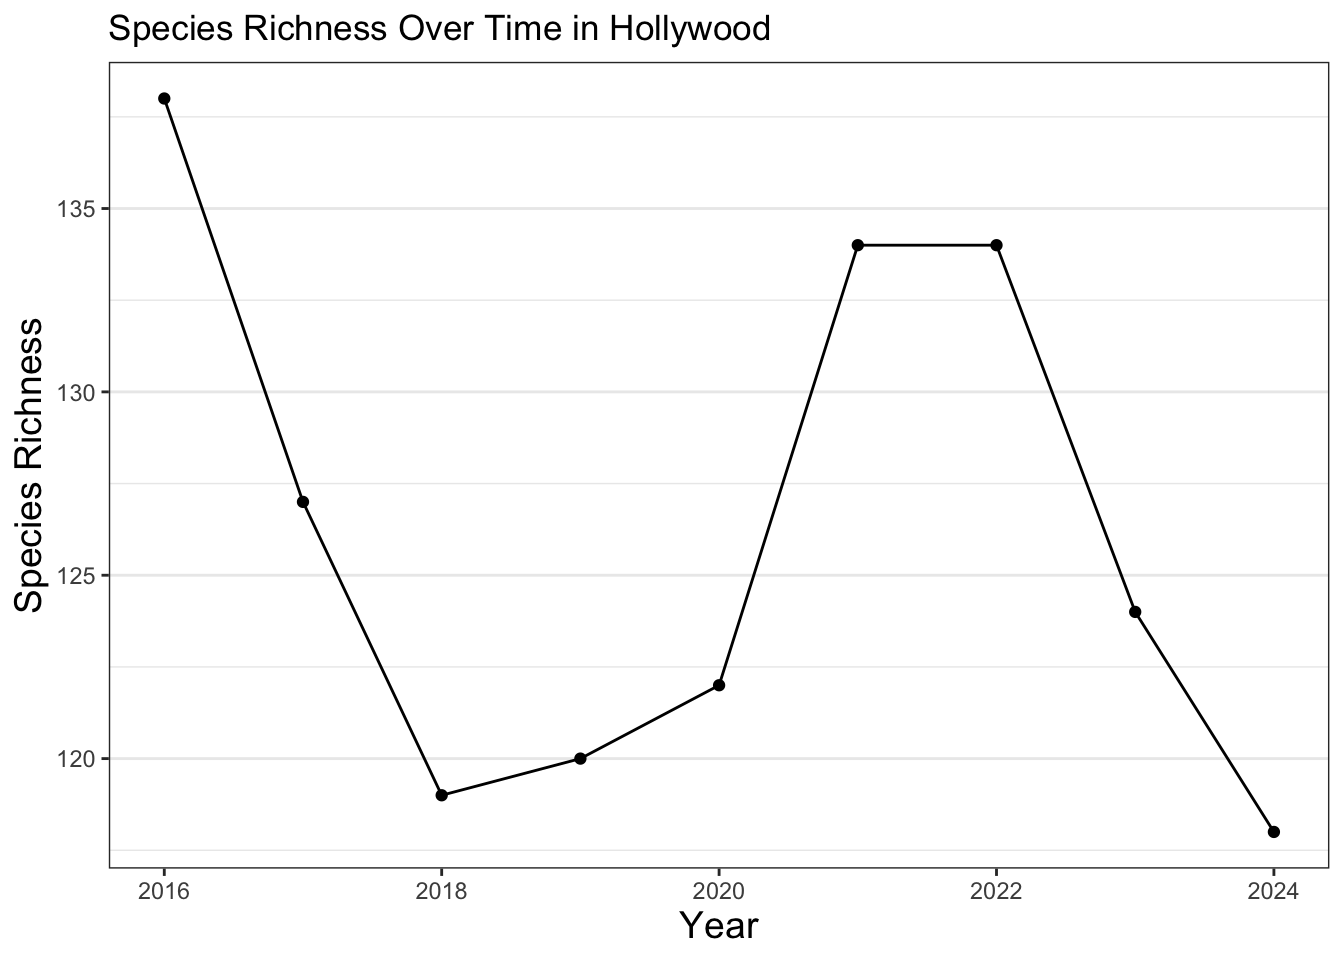
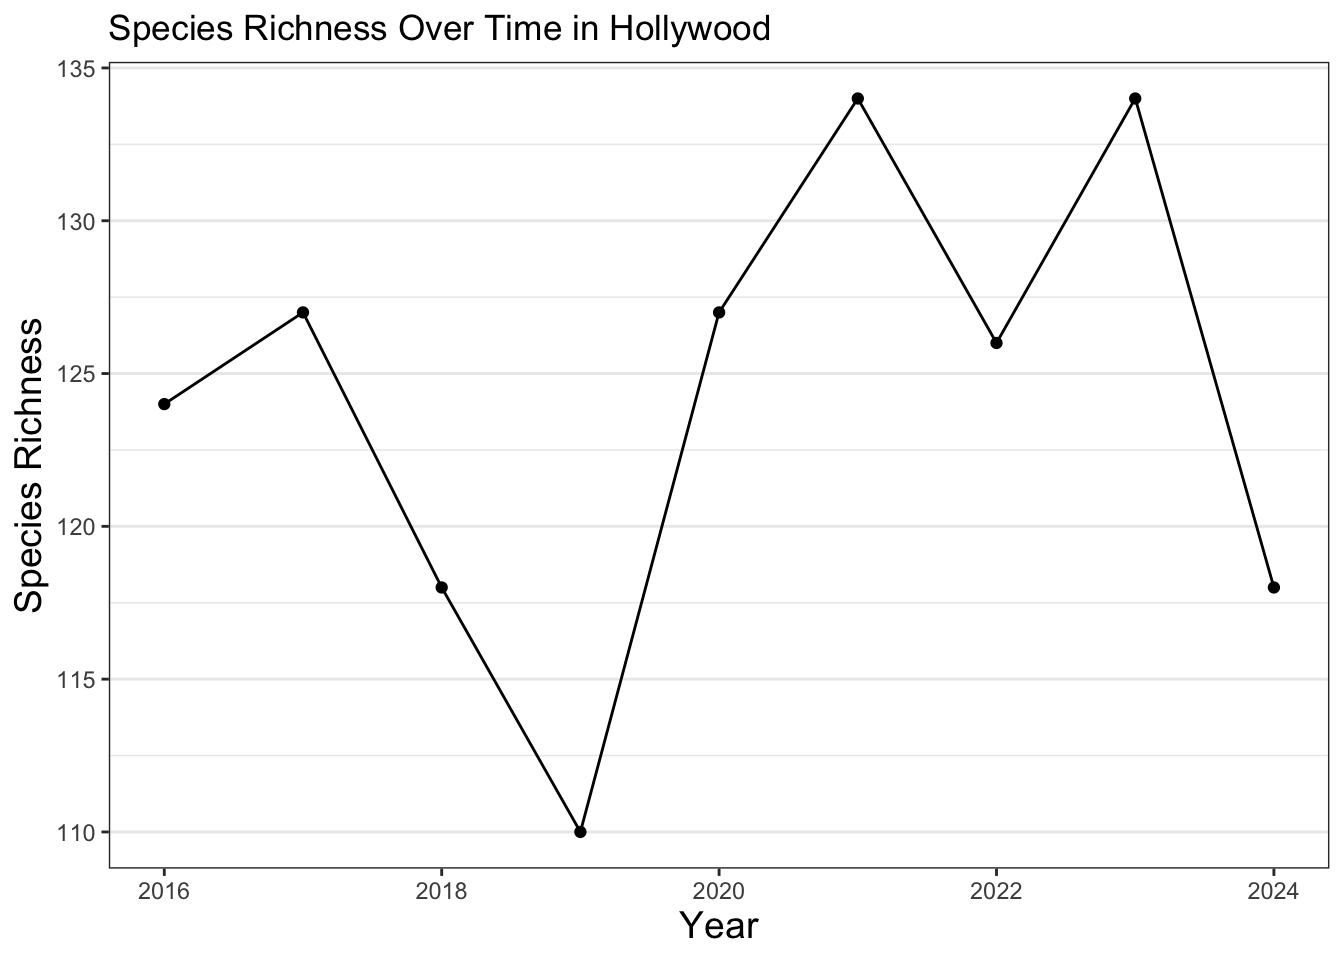
generate docs

diff --git a/docs/lessons/coding-after-workshop.html b/docs/lessons/coding-after-workshop.html
@@ -357,21 +357,21 @@ ul.task-list li input[type="checkbox"] {
 </ol>
 <p>Go to <a href="https://github.com/orgs/data-explorers-feb-2025/repositories">data-explorers-feb-2025</a> account page, and you should see your repository. Click on your repository. The repository page will have a green “Code” button.</p>
 <p><img src="images/coding-after-workshop/code-button.png" class="img-fluid"></p>
-<p>When you click on “Code”, there will be a “Local” tab &gt; “Download ZIP” option. Click on “Download ZIP”. A zip file for your repository will be saved to your computer.</p>
+<p>When you click on “Code”, click the “Local” tab. Click on “Download ZIP”. A zip file for your repository will be saved to your computer.</p>
 <p><img src="images/coding-after-workshop/download-zip.png" class="img-fluid"></p>
 <p>Unzip the file. Click on <code>workshop.Rproj</code> file to start RStudio on your machine. Now you can continue editing and running your project code.</p>
 </section>
 </section>
 <section id="create-new-project" class="level2">
 <h2 class="anchored" data-anchor-id="create-new-project">3. Create new project</h2>
-<p>You can create new R projects on Github or on your computer.</p>
+<p>If you want to start a new project, you can create a new R project on Github or on your computer.</p>
 <section id="create-new-projects-on-github" class="level3">
 <h3 class="anchored" data-anchor-id="create-new-projects-on-github">Create new projects on Github</h3>
 <p>I created a template you can use to create new projects that runs R and Rstudio on Github Codespace. <a href="https://github.com/wykhuh/r-rstudio-codespace">R, RStudio, Codespace template</a>.</p>
 </section>
 <section id="create-new-projects-on-your-computer" class="level3">
 <h3 class="anchored" data-anchor-id="create-new-projects-on-your-computer">Create new projects on your computer</h3>
-<p>With R, RStudio, and R packages installed on your computer, you can also create new projects. Follow the instructions on <a href="../lessons/setup-local.html#k">Setup - local page &gt; ”</a><a href="../lessons/setup-local.html#organizing-your-project-folder">Organizing your project folder</a><a href="../lessons/setup-local.html#k">”</a> to set up new projects.</p>
+<p>Once you have R and RStudio installed on your computer, you can also create new projects. Follow the instructions on <a href="../lessons/setup-local.html#organizing-your-project-folder">Setup - local page &gt; Organizing your project folder</a> to set up new projects. Follow the instructions on <a href="../lessons/setup-local.html#install-packages">Setup - local page &gt; “Install R packages”</a> to install R packages.</p>
 
 
 </section>

diff --git a/docs/lessons/cleaning-data.html b/docs/lessons/cleaning-data.html
@@ -341,7 +341,7 @@ extracting from zip file</code></pre>
 <li>information about observations with threatened, native, and introduced species had to be downloaded separately</li>
 </ul>
 <p>In order to simplify things for the workshop attendees, we fixed the various issues and created a cleaned up CSV.</p>
-<p>These are the steps we took to produced the cleaned up file. The raw file is at ‘/var/folders/zw/0kb57jnn5nv9k3pgxsz86n7h0000gq/T//Rtmp1lzIie/file10ac656c97c0’, the cleaned file is at ‘/Users/wyk/Development/science/city_nature_challenge/NHMLA_workshop/after_inaturalist_lesson/data/cleaned/cnc-los-angeles-observations.csv’</p>
+<p>These are the steps we took to produced the cleaned up file. The raw file is at ‘/var/folders/zw/0kb57jnn5nv9k3pgxsz86n7h0000gq/T//Rtmpel1mxP/file5e7c583e3ff2’, the cleaned file is at ‘/Users/wyk/Development/science/city_nature_challenge/NHMLA_workshop/after_inaturalist_lesson/data/cleaned/cnc-los-angeles-observations.csv’</p>
 <div class="cell">
 <div class="sourceCode cell-code" id="cb5"><pre class="sourceCode r code-with-copy"><code class="sourceCode r"><span id="cb5-1"><a href="#cb5-1" aria-hidden="true" tabindex="-1"></a>tmp <span class="ot">&lt;-</span> <span class="fu">tempfile</span>()</span>
 <span id="cb5-2"><a href="#cb5-2" aria-hidden="true" tabindex="-1"></a>zip_path <span class="ot">&lt;-</span> <span class="fu">here</span>(<span class="st">'data/raw/observations-513664.zip'</span>)</span>

diff --git a/docs/lessons/normalizing-inat.html b/docs/lessons/normalizing-inat.html
@@ -431,14 +431,14 @@ are planar</code></pre>
 <div class="cell-output cell-output-stdout">
 <pre><code># A tibble: 6 × 2
 # Groups:   year [1]
-   year scientific_name          
-  &lt;dbl&gt; &lt;chr&gt;                    
-1  2016 Selasphorus sasin        
-2  2016 Hirschfeldia incana      
-3  2016 Encelia californica      
-4  2016 Coccinella septempunctata
-5  2016 Crassula ovata           
-6  2016 Washingtonia robusta     </code></pre>
+   year scientific_name           
+  &lt;dbl&gt; &lt;chr&gt;                     
+1  2016 Apis mellifera            
+2  2016 Brickellia californica    
+3  2016 Eucrypta chrysanthemifolia
+4  2016 Glycaspis brimblecombei   
+5  2016 Hypochaeris glabra        
+6  2016 Corvus corax              </code></pre>
 </div>
 </div>
 <p>We can use table to confirm we get <code>lowest_year</code> number of observations per year.</p>
@@ -465,14 +465,14 @@ are planar</code></pre>
 # Groups:   year [9]
    year richness
   &lt;dbl&gt;    &lt;int&gt;
-1  2016      138
+1  2016      124
 2  2017      127
-3  2018      119
-4  2019      120
-5  2020      122
+3  2018      118
+4  2019      110
+5  2020      127
 6  2021      134
-7  2022      134
-8  2023      124
+7  2022      126
+8  2023      134
 9  2024      118</code></pre>
 </div>
 </div>

diff --git a/docs/lessons/additional-analysis.html b/docs/lessons/additional-analysis.html
@@ -754,7 +754,7 @@ $ geometry           &lt;POINT [°]&gt; POINT (-118.5365 34.38503), POINT (-118.
 <span id="cb55-6"><a href="#cb55-6" aria-hidden="true" tabindex="-1"></a><span class="fu">table</span>(my_inat<span class="sc">$</span>observed_on)</span></code><button title="Copy to Clipboard" class="code-copy-button"><i class="bi"></i></button></pre></div>
 <div class="cell-output cell-output-stdout">
 <pre><code>
-2017-04-17 2017-04-18 2021-04-30 2022-05-01 2022-05-02 
+2016-04-19 2018-04-29 2022-05-02 2023-04-30 2024-04-27 
          1          1          1          1          1 </code></pre>
 </div>
 </div>
